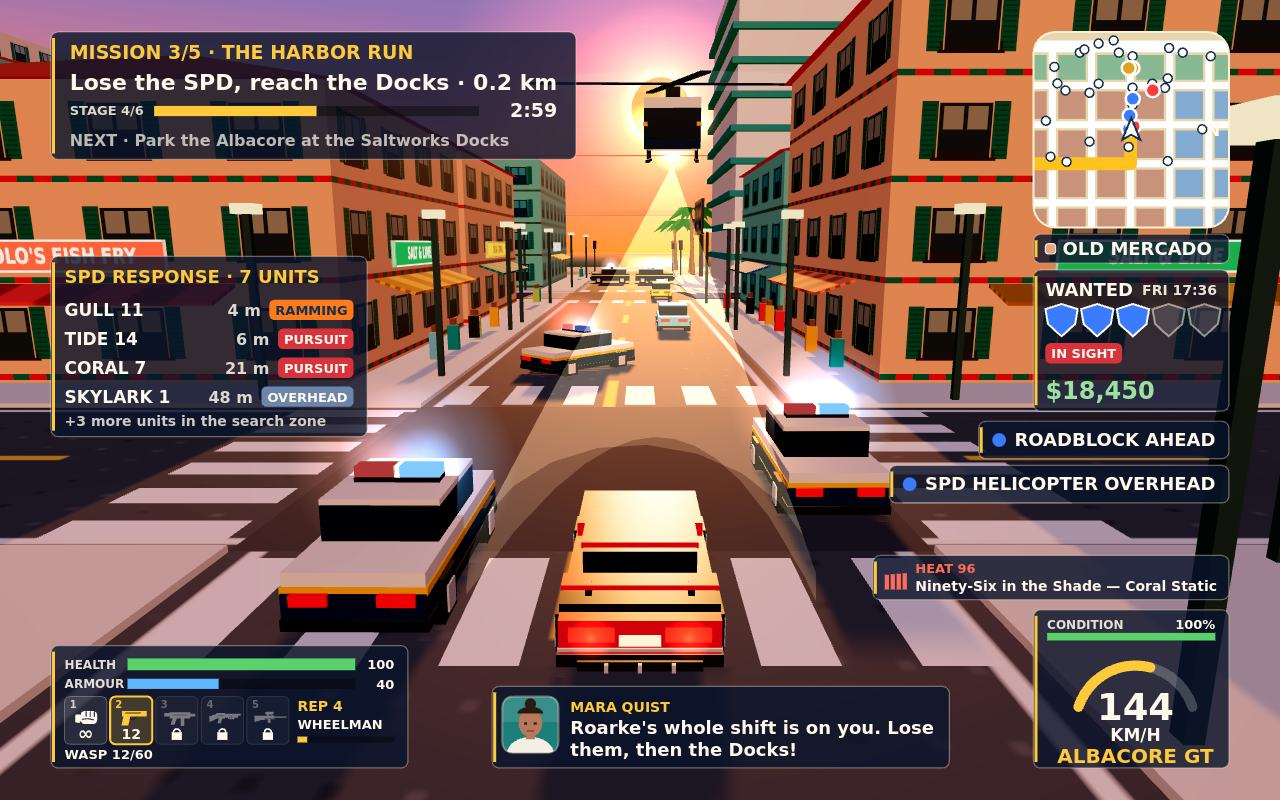
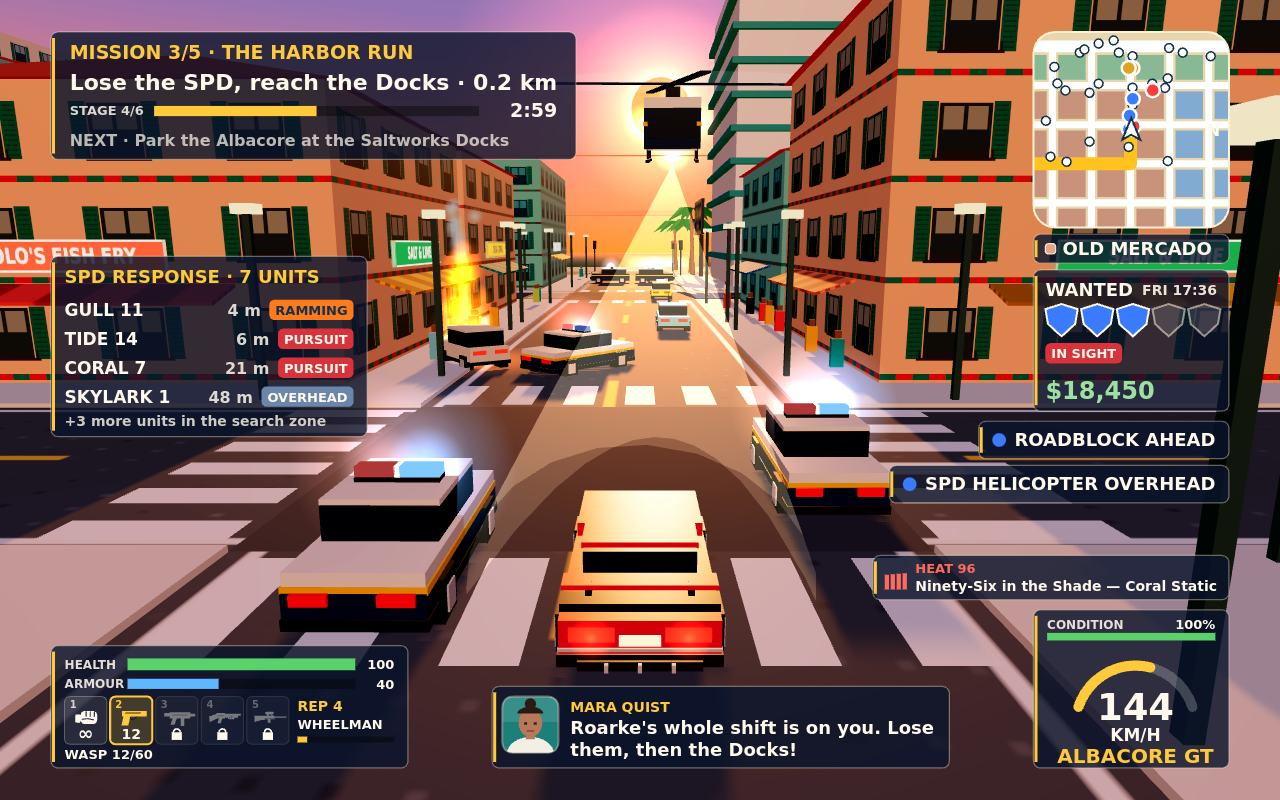
M19 step 2: burning Pipit in the chase (W2): SCENES.chase re-parks the city's parked Pipit (PARKED_SPOTS[8], found at (-53, -140)) right after the Albacore's kerb placement at FRAME.burner (-75, -23.8), heading PI/2 + 0.6, health 15 (burns under 22, never blows over 0), speed 0; it burns ~6 s before

Changed region(s): [[0.3125, 0.25, 0.4062, 0.5]]

diff --git a/game/src/dev/screenshot-scenes.js b/game/src/dev/screenshot-scenes.js
@@ -73,7 +73,10 @@ function writeAutosaveShot(game) {
 // centre over the sea at the end of the street.
 // v2: the player's own HIGH car view (C in play), down Rua 5 through the Old Mercado toward the
 // Palmline front, the beach and the low sun at the end of the street; cruisers beside the coupe.
-const FRAME = { start: -22, flank: [[1, -3.7], [5.5, 3.7]], heliX: 0.06, heliY: 0.66, heliUp: 13, speed: 40 };
+const FRAME = { start: -22, flank: [[1, -3.7], [5.5, 3.7]], heliX: 0.06, heliY: 0.66, heliUp: 13, speed: 40,
+  // The city's parked Pipit (PARKED_SPOTS[8]) up the south kerb of Rua 5 past the Avenida, nose in:
+  // at 15 health it burns (under 22) and never blows (over 0); burning never lowers health.
+  burner: { x: -75, z: -23.8, heading: Math.PI / 2 + 0.6, health: 15 } };
 // Where Wren stands for the Lantern Point stand, from game.anchors.lantern (on the boulevard's sand
 // side, 28 m from the nearest walkers' ring corner), the yaw the frame is held near (the SUV, the
 // guards and Feira das Lanternas in the WIDE view) and which first-wave guard goes down.
@@ -108,6 +111,10 @@ export const SCENES = {
     // goes, so no card rises over the street when the chase starts.
     car.x = FRAME.start; car.z = -31; car.heading = Math.PI / 2; car.vx = car.vz = car.speed = 0; car.sync();
     game.player.x = car.x; game.player.z = car.z + 2.2;
+    // The Pipit the pursuit put into the kerb ahead (the city's own parked car), burning.
+    const pip = game.cars.find((c) => c.x === -53 && c.z === -140);
+    if (!pip) throw new Error('chase: parked Pipit not found');
+    Object.assign(pip, FRAME.burner, { speed: 0, vx: 0, vz: 0 }); pip.sync();
     hold([], 300);
     game.enterOrExit();
     // Westbound on Rua 5 (z -30) toward Palmline, the beach and the low sun over the sea.
